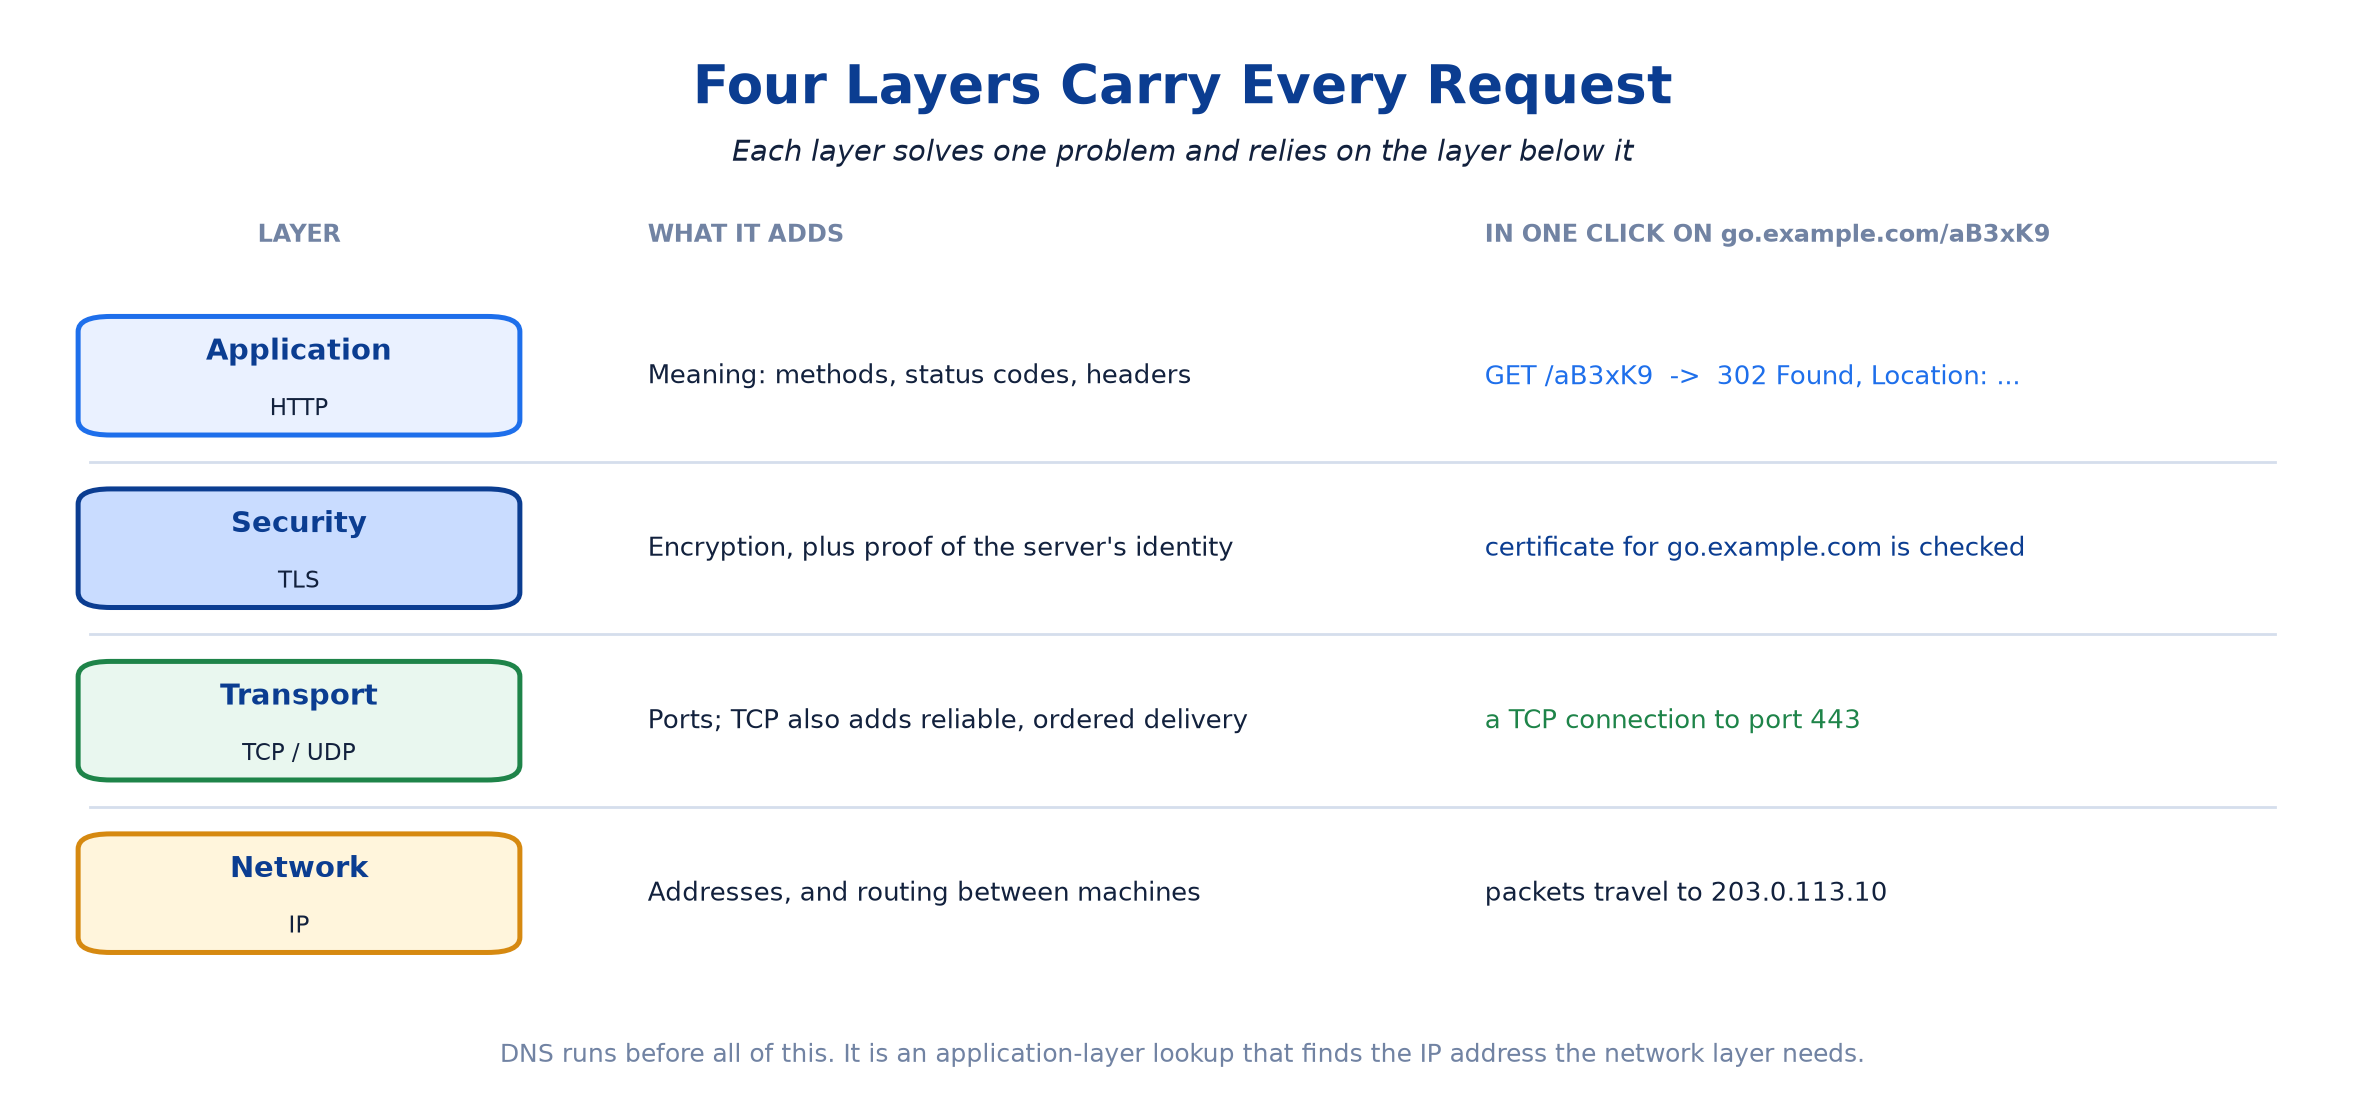
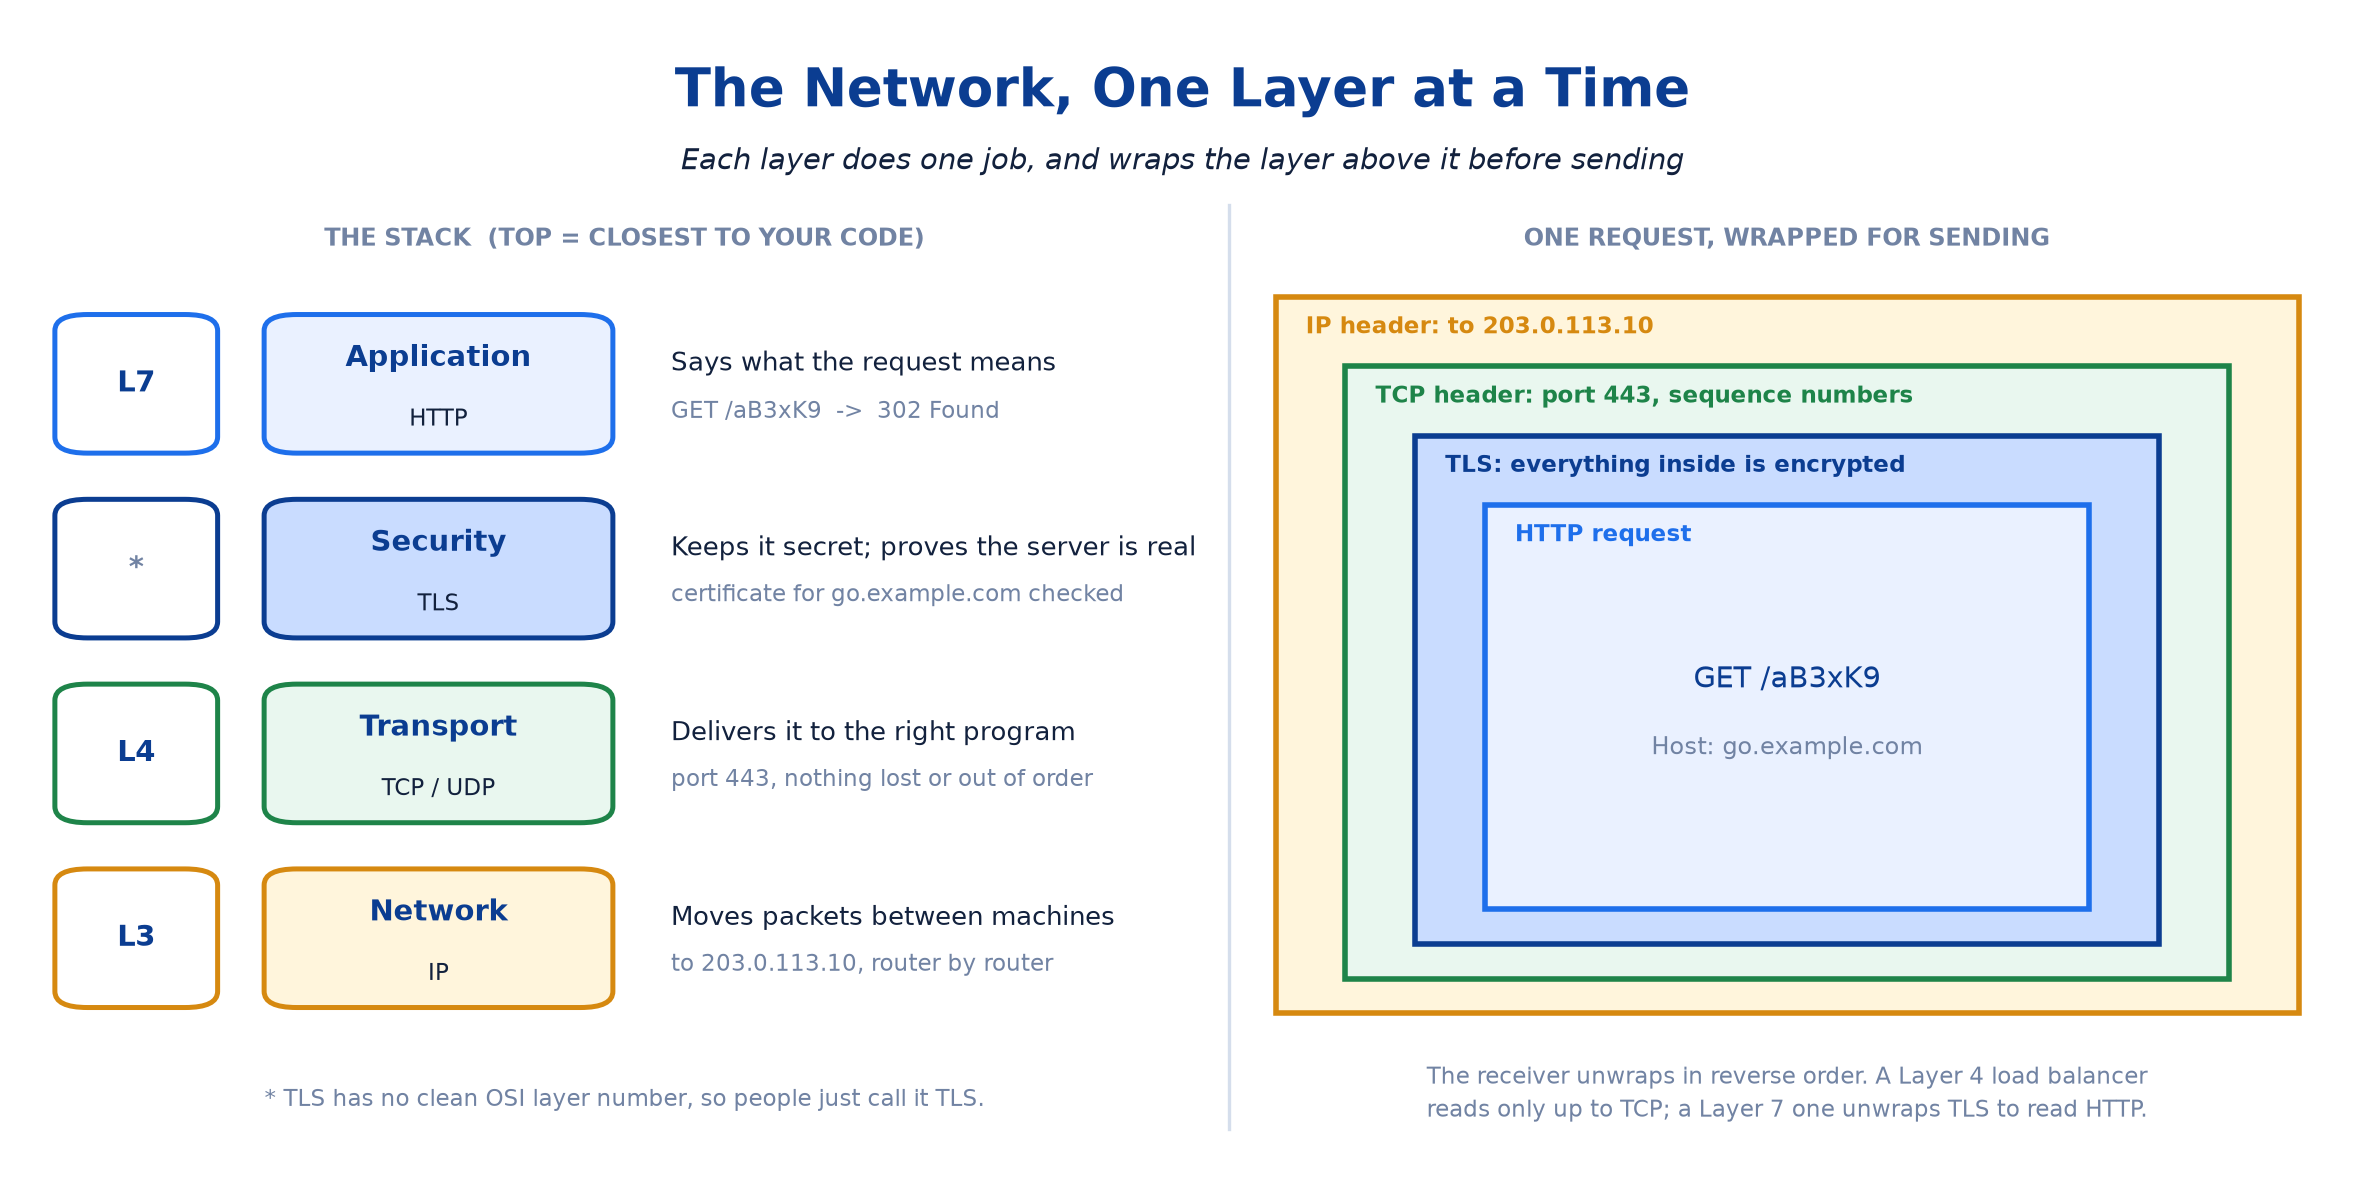
Basics 4: clearer network-layers diagram and plainer layer explanation

diff --git a/system-design/_support/tools/plot_topic_04_figures.py b/system-design/_support/tools/plot_topic_04_figures.py
@@ -76,32 +76,53 @@ def bar(ax: plt.Axes, x: float, y: float, width: float, height: float, color: st
 # ---------- figures --------------------------------------------------------------
 
 def network_layers() -> plt.Figure:
-    fig, ax = canvas(15, 7)
-    heading(ax, "Four Layers Carry Every Request",
-            "Each layer solves one problem and relies on the layer below it")
-    caps(ax, 12, 80, "LAYER")
-    caps(ax, 27, 80, "WHAT IT ADDS", ha="left")
-    caps(ax, 63, 80, "IN ONE CLICK ON go.example.com/aB3xK9", ha="left")
-    rows = [
-        ("Application", "HTTP", "Meaning: methods, status codes, headers",
-         "GET /aB3xK9  ->  302 Found, Location: ...", BLUE, PALE),
-        ("Security", "TLS", "Encryption, plus proof of the server's identity",
-         "certificate for go.example.com is checked", NAVY, MIST),
-        ("Transport", "TCP / UDP", "Ports; TCP also adds reliable, ordered delivery",
-         "a TCP connection to port 443", GREEN, GREEN_FACE),
-        ("Network", "IP", "Addresses, and routing between machines",
-         "packets travel to 203.0.113.10", AMBER, AMBER_FACE),
+    fig, ax = canvas(15, 7.5)
+    heading(ax, "The Network, One Layer at a Time",
+            "Each layer does one job, and wraps the layer above it before sending")
+    layers = [
+        # tag, name, protocol, job, example, edge colour, face colour, wrapper label
+        ("L7", "Application", "HTTP", "Says what the request means",
+         "GET /aB3xK9  ->  302 Found", BLUE, PALE, "HTTP request"),
+        ("*", "Security", "TLS", "Keeps it secret; proves the server is real",
+         "certificate for go.example.com checked", NAVY, MIST,
+         "TLS: everything inside is encrypted"),
+        ("L4", "Transport", "TCP / UDP", "Delivers it to the right program",
+         "port 443, nothing lost or out of order", GREEN, GREEN_FACE,
+         "TCP header: port 443, sequence numbers"),
+        ("L3", "Network", "IP", "Moves packets between machines",
+         "to 203.0.113.10, router by router", AMBER, AMBER_FACE,
+         "IP header: to 203.0.113.10"),
     ]
-    for index, (name, protocol, adds, example, color, face) in enumerate(rows):
-        y = 62 - index * 16
-        box(ax, 3, y, 18, 10, name, protocol, face=face, edge=color)
-        note(ax, 27, y + 5, adds, size=9.5)
-        note(ax, 63, y + 5, example, size=9.5, color=color if color != AMBER else INK)
-        if index < len(rows) - 1:
-            ax.plot([3, 97], [y - 3, y - 3], color=LINE, linewidth=1)
-    note(ax, 50, 4, "DNS runs before all of this. It is an application-layer lookup "
-         "that finds the IP address the network layer needs.", ha="center",
-         color=GREY, size=9)
+
+    caps(ax, 26, 81, "THE STACK  (TOP = CLOSEST TO YOUR CODE)")
+    caps(ax, 76, 81, "ONE REQUEST, WRAPPED FOR SENDING")
+    ax.plot([52, 52], [4, 84], color=LINE, linewidth=1.2)
+
+    for index, (tag, name, protocol, job, example, edge, face, _) in enumerate(layers):
+        y = 63 - index * 16
+        box(ax, 2, y, 6, 11, tag, face=WHITE, edge=edge,
+            title_color=GREY if tag == "*" else NAVY)
+        box(ax, 11, y, 14, 11, name, protocol, face=face, edge=edge)
+        note(ax, 28, y + 7.3, job, size=9.2)
+        note(ax, 28, y + 3.2, example, size=8.2, color=GREY)
+
+    # The same layers as nested envelopes: the outermost wrapper is the lowest layer.
+    for depth, (*_, edge, face, label) in enumerate(reversed(layers)):
+        inset = depth * 3
+        x, y = 54 + inset, 14 + inset
+        width, height = 44 - 2 * inset, 62 - 2 * inset - depth * 3
+        ax.add_patch(Rectangle((x, y), width, height, facecolor=face, edgecolor=edge,
+                               linewidth=2))
+        ax.text(x + 1.3, y + height - 2.6, label, va="center", fontsize=8.4,
+                fontweight="bold", color=edge)
+    note(ax, 76, 43, "GET /aB3xK9", size=10.5, color=NAVY, ha="center")
+    note(ax, 76, 37, "Host: go.example.com", size=8.6, color=GREY, ha="center")
+
+    note(ax, 26, 6.5, "* TLS has no clean OSI layer number, so people just call it TLS.",
+         size=8.2, color=GREY, ha="center")
+    note(ax, 76, 7, "The receiver unwraps in reverse order. A Layer 4 load balancer\n"
+         "reads only up to TCP; a Layer 7 one unwraps TLS to read HTTP.",
+         size=8.2, color=GREY, ha="center")
     return fig
 
 

diff --git a/system-design/basics/04_Networking_And_Request_Lifecycle.md b/system-design/basics/04_Networking_And_Request_Lifecycle.md
@@ -54,9 +54,18 @@ Steps 1, 2, 3, and 7 cross the public internet, where every round trip costs ten
 
 ## 2. The network, one layer at a time
 
-![Four layers carry every request: HTTP, TLS, TCP or UDP, and IP](assets/topic-04/network_layers.png)
+![The network stack (HTTP, TLS, TCP, IP) and one request wrapped layer by layer](assets/topic-04/network_layers.png)
 
-Networking is built in layers. Each layer solves one problem and relies on the layer below it, so HTTP never worries about routing and IP never worries about status codes. You will hear these layers referred to by number, because of an older seven-layer model called OSI. Two numbers matter in system design interviews:
+Networking is built in **layers**, and each layer does exactly one job:
+
+- **HTTP** says what the request means: "where does short code `aB3xK9` point?"
+- **TLS** keeps it secret, and proves the server really is `go.example.com`.
+- **TCP** (or UDP) delivers it to the right program on the server.
+- **IP** moves the packets from one machine to the next until they arrive.
+
+When the browser sends a request, each layer wraps what the layer above gave it, like a letter in an envelope inside a parcel. The receiving machine unwraps it in the reverse order. Because each layer only reads its own wrapper, HTTP never has to think about routing, and IP never has to think about status codes.
+
+Engineers often call layers by number. The numbers come from an older seven-layer reference model called **OSI**, and two of them come up again and again in system design interviews:
 
 | Name you will hear | What it means | Why it matters in design |
 |---|---|---|
